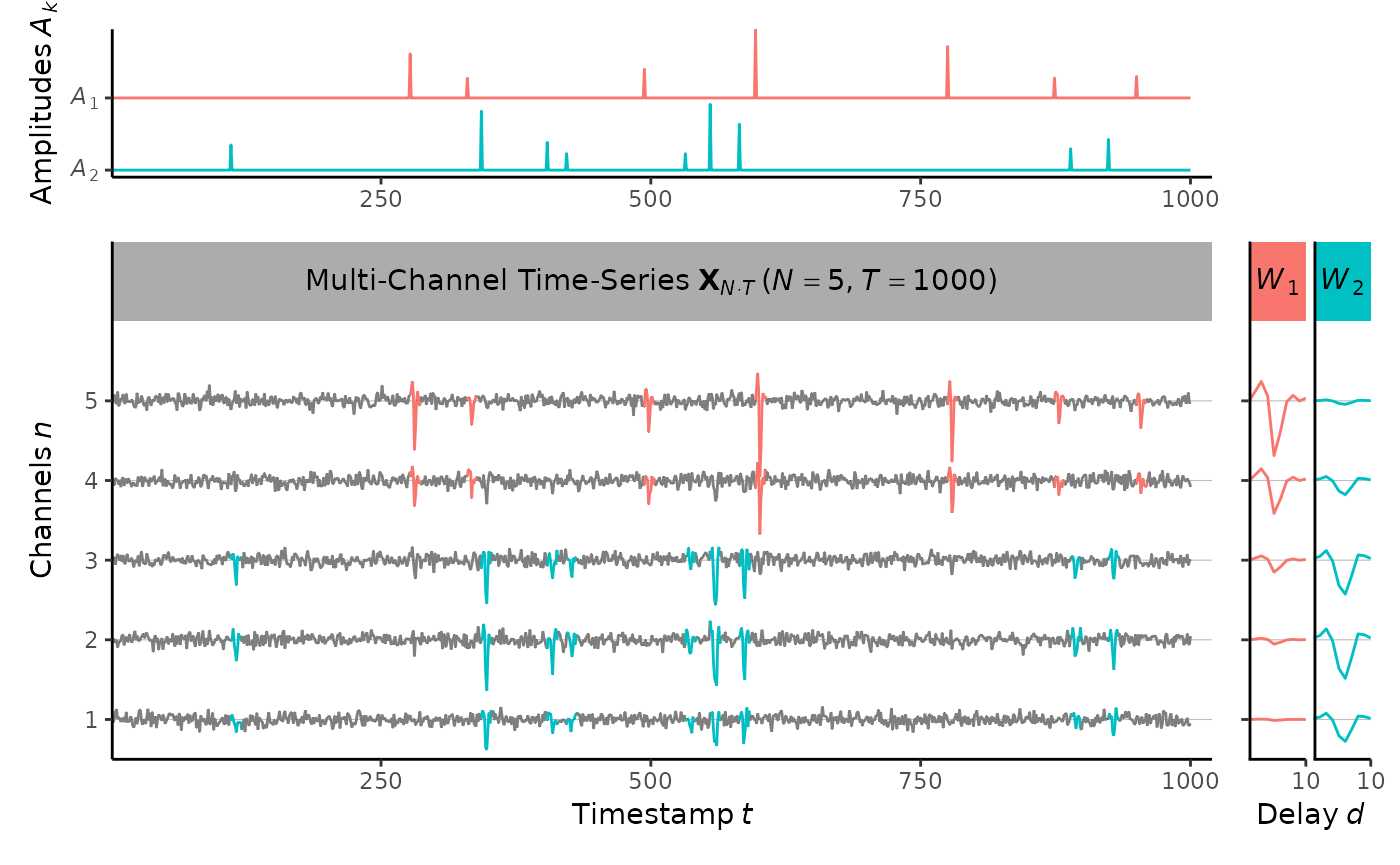
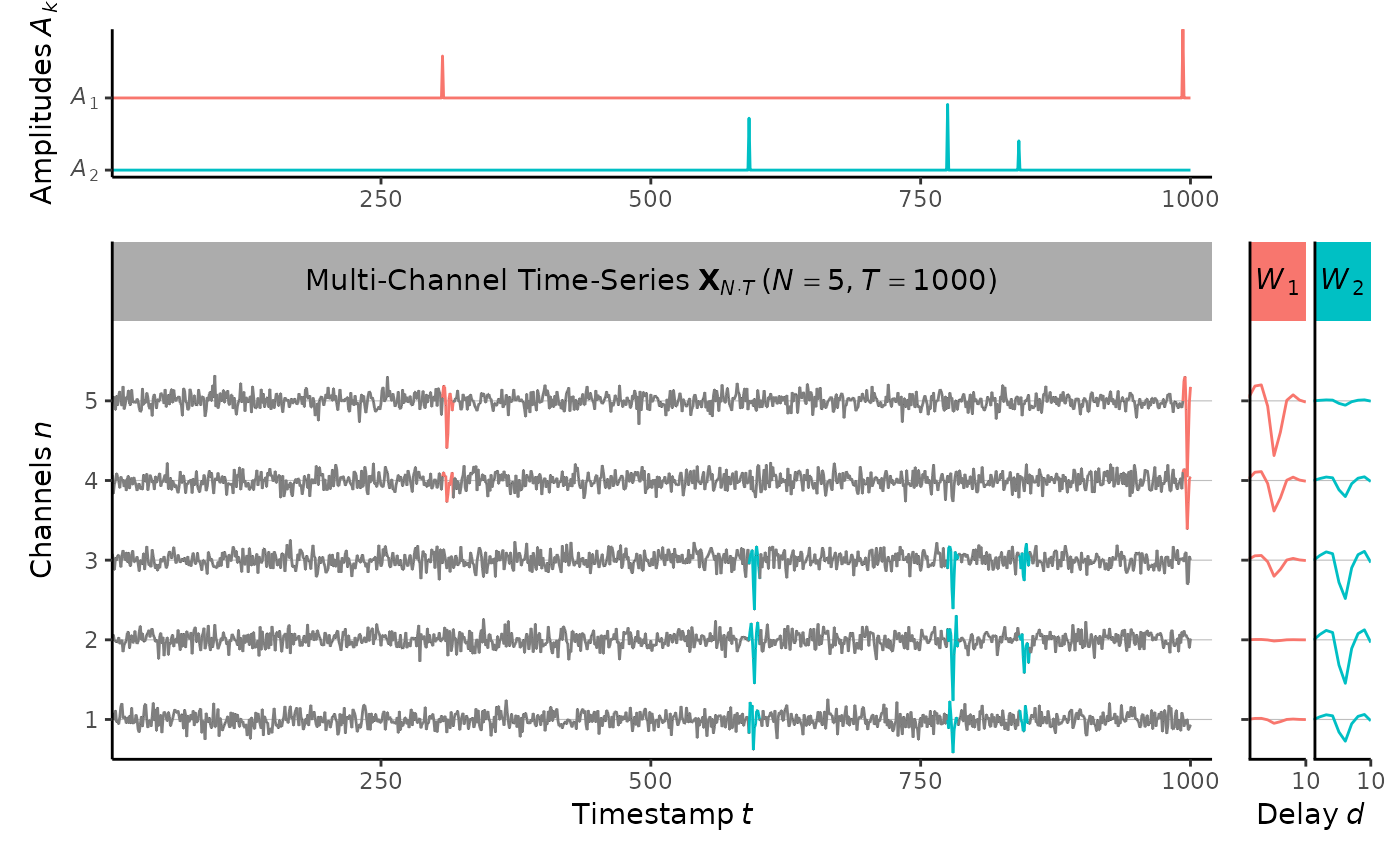
Deploying to gh-pages from @ rinseo/convNMF@4ca87d7bb933d0e183492358e6078bfe38229a6b 🚀

diff --git a/articles/getting-started.html b/articles/getting-started.html
@@ -79,7 +79,7 @@
 <span><span class="va">init</span> <span class="op">&lt;-</span> <span class="fu"><a href="../reference/generate.html">generate</a></span><span class="op">(</span></span>
 <span>  num_channels<span class="op">=</span><span class="fl">5</span>, <span class="co"># number of channels</span></span>
 <span>  num_samples<span class="op">=</span><span class="fl">1000</span>, <span class="co"># number of samples</span></span>
-<span>  sample_freq<span class="op">=</span><span class="fl">1000</span>, <span class="co"># number of samples per unit time</span></span>
+<span>  sample_freq<span class="op">=</span><span class="fl">3000</span>, <span class="co"># number of samples per unit time</span></span>
 <span>  num_neurons<span class="op">=</span><span class="fl">2</span>, <span class="co"># number of neurons</span></span>
 <span>  warp<span class="op">=</span><span class="kw">function</span><span class="op">(</span><span class="va">x</span><span class="op">)</span> <span class="op">-</span><span class="fu"><a href="https://rdrr.io/r/base/Log.html" class="external-link">exp</a></span><span class="op">(</span><span class="op">-</span><span class="va">x</span><span class="op">)</span> <span class="op">+</span> <span class="fl">1</span>, <span class="co"># negative spike</span></span>
 <span>  len_wavelet<span class="op">=</span><span class="fl">10</span>, <span class="co"># length of spikes</span></span>
@@ -103,7 +103,7 @@
 <code class="sourceCode R"><span><span class="fu"><a href="https://rdrr.io/r/base/Random.html" class="external-link">set.seed</a></span><span class="op">(</span><span class="fl">1</span><span class="op">)</span></span>
 <span><span class="va">est</span> <span class="op">&lt;-</span> <span class="fu"><a href="../reference/convNMF.html">convNMF</a></span><span class="op">(</span></span>
 <span>  data<span class="op">=</span><span class="va">init</span><span class="op">@</span><span class="va">data</span><span class="op">@</span><span class="va">value</span>, <span class="co"># multi-channel time-series array (NxT)</span></span>
-<span>  sample_freq<span class="op">=</span><span class="fl">1000</span>, <span class="co"># number of samples per unit time</span></span>
+<span>  sample_freq<span class="op">=</span><span class="fl">3000</span>, <span class="co"># number of samples per unit time</span></span>
 <span>  num_neurons<span class="op">=</span><span class="fl">2</span>, <span class="co"># number of neurons</span></span>
 <span>  len_wavelet<span class="op">=</span><span class="fl">10</span>, <span class="co"># length of spikes</span></span>
 <span>  warp<span class="op">=</span><span class="kw">function</span><span class="op">(</span><span class="va">x</span><span class="op">)</span> <span class="op">-</span><span class="fu"><a href="https://rdrr.io/r/base/Log.html" class="external-link">exp</a></span><span class="op">(</span><span class="op">-</span><span class="va">x</span><span class="op">)</span> <span class="op">+</span> <span class="fl">1</span>, <span class="co"># negative spike</span></span>
@@ -120,7 +120,7 @@
 <span><span class="co">#&gt; Using (N x T) = (5 x 1000) data.</span></span>
 <span><span class="co">#&gt; Generating (K x N x D) = (2 x 5 x 10) wavelets.</span></span>
 <span><span class="co">#&gt; Initializing (K x T) = (2 x 1000) amplitudes.</span></span>
-<span><span class="co">#&gt; Iteration [4/50] Convergence detected!</span></span>
+<span><span class="co">#&gt; Iteration [3/50] Convergence detected!</span></span>
 <span><span class="fu"><a href="https://rdrr.io/r/graphics/plot.default.html" class="external-link">plot</a></span><span class="op">(</span><span class="va">est</span><span class="op">)</span></span></code></pre></div>
 <p><img src="getting-started_files/figure-html/unnamed-chunk-2-1.png" width="700"></p>
 <div class="sourceCode" id="cb5"><pre class="downlit sourceCode r">
@@ -136,21 +136,21 @@
 <p><img src="getting-started_files/figure-html/unnamed-chunk-3-1.png" width="700"></p>
 <div class="sourceCode" id="cb7"><pre class="downlit sourceCode r">
 <code class="sourceCode R"><span><span class="fu"><a href="https://rdrr.io/r/base/sprintf.html" class="external-link">sprintf</a></span><span class="op">(</span><span class="st">"logLik = %.2f"</span>,<span class="fu"><a href="https://rdrr.io/r/stats/logLik.html" class="external-link">logLik</a></span><span class="op">(</span><span class="va">est</span><span class="op">)</span><span class="op">)</span></span>
-<span><span class="co">#&gt; [1] "logLik = -7288.39"</span></span>
+<span><span class="co">#&gt; [1] "logLik = -7215.36"</span></span>
 <span><span class="fu"><a href="https://rdrr.io/r/base/sprintf.html" class="external-link">sprintf</a></span><span class="op">(</span><span class="st">"%% power explained = %.2f"</span>,<span class="fu"><a href="../reference/power_explained.html">power_explained</a></span><span class="op">(</span><span class="va">est</span><span class="op">)</span><span class="op">)</span></span>
-<span><span class="co">#&gt; [1] "% power explained = 0.42"</span></span>
+<span><span class="co">#&gt; [1] "% power explained = 0.14"</span></span>
 <span><span class="fu"><a href="https://rdrr.io/r/base/sprintf.html" class="external-link">sprintf</a></span><span class="op">(</span><span class="st">"Sequenciness = %.2f"</span>,<span class="fu"><a href="../reference/sequenciness.html">sequenciness</a></span><span class="op">(</span><span class="va">est</span><span class="op">)</span><span class="op">)</span></span>
-<span><span class="co">#&gt; [1] "Sequenciness = 0.97"</span></span>
+<span><span class="co">#&gt; [1] "Sequenciness = 1.00"</span></span>
 <span><span class="fu"><a href="../reference/confusion_matrix.html">confusion_matrix</a></span><span class="op">(</span><span class="va">init</span>, <span class="va">est</span><span class="op">)</span></span>
 <span><span class="co">#&gt;                      (Prediction)</span></span>
 <span><span class="co">#&gt;                        Positive   Negative</span></span>
-<span><span class="co">#&gt; (Reference) Positive        410          0</span></span>
-<span><span class="co">#&gt;             Negative         36       4554</span></span>
+<span><span class="co">#&gt; (Reference) Positive        130          0</span></span>
+<span><span class="co">#&gt;             Negative          0       4870</span></span>
 <span><span class="co">#&gt; ------------------------------------------</span></span>
-<span><span class="co">#&gt;             Accuracy: TP/(TP+FN+FP) = 0.92 </span></span>
-<span><span class="co">#&gt;               Recall: TP/(TP+FN)    = 0.92 </span></span>
+<span><span class="co">#&gt;             Accuracy: TP/(TP+FN+FP) = 1.00 </span></span>
+<span><span class="co">#&gt;               Recall: TP/(TP+FN)    = 1.00 </span></span>
 <span><span class="co">#&gt;            Precision: TP/(TP+FP)    = 1.00 </span></span>
-<span><span class="co">#&gt;            Miss rate: FN/(TP+FN)    = 0.08 </span></span>
+<span><span class="co">#&gt;            Miss rate: FN/(TP+FN)    = 0.00 </span></span>
 <span><span class="co">#&gt; False discovery rate: FP/(TP+FP)    = 0.00</span></span>
 <span><span class="co"># extract_spikes(est) # based on 95% spikes</span></span></code></pre></div>
 </div>
@@ -164,11 +164,11 @@
 <span>  <span class="va">diss_list</span><span class="op">[</span><span class="va">K</span><span class="op">]</span> <span class="op">&lt;-</span> <span class="fu"><a href="../reference/compute_diss_matrix.html">compute_diss_matrix</a></span><span class="op">(</span><span class="va">est</span>, num_neurons<span class="op">=</span><span class="va">K</span><span class="op">)</span><span class="op">$</span><span class="va">mean_diss</span></span>
 <span>  <span class="fu"><a href="https://rdrr.io/r/base/print.html" class="external-link">print</a></span><span class="op">(</span><span class="fu"><a href="https://rdrr.io/r/base/sprintf.html" class="external-link">sprintf</a></span><span class="op">(</span><span class="st">"%d: %.2f"</span>,<span class="va">K</span>,<span class="va">diss_list</span><span class="op">[</span><span class="va">K</span><span class="op">]</span><span class="op">)</span><span class="op">)</span></span>
 <span><span class="op">}</span></span>
-<span><span class="co">#&gt; [1] "1: 0.00"</span></span>
-<span><span class="co">#&gt; [1] "2: 0.02"</span></span>
-<span><span class="co">#&gt; [1] "3: 0.22"</span></span>
-<span><span class="co">#&gt; [1] "4: 0.33"</span></span>
-<span><span class="co">#&gt; [1] "5: 0.43"</span></span>
+<span><span class="co">#&gt; [1] "1: 0.16"</span></span>
+<span><span class="co">#&gt; [1] "2: 0.06"</span></span>
+<span><span class="co">#&gt; [1] "3: 0.33"</span></span>
+<span><span class="co">#&gt; [1] "4: 0.47"</span></span>
+<span><span class="co">#&gt; [1] "5: 0.56"</span></span>
 <span><span class="fu"><a href="https://rdrr.io/r/graphics/plot.default.html" class="external-link">plot</a></span><span class="op">(</span><span class="va">diss_list</span>, type<span class="op">=</span><span class="st">"b"</span>, xlab<span class="op">=</span><span class="st">"K"</span>, ylab<span class="op">=</span><span class="st">"Dissimiliarity"</span><span class="op">)</span></span></code></pre></div>
 <p><img src="getting-started_files/figure-html/unnamed-chunk-4-1.png" width="700"></p>
 </div>
